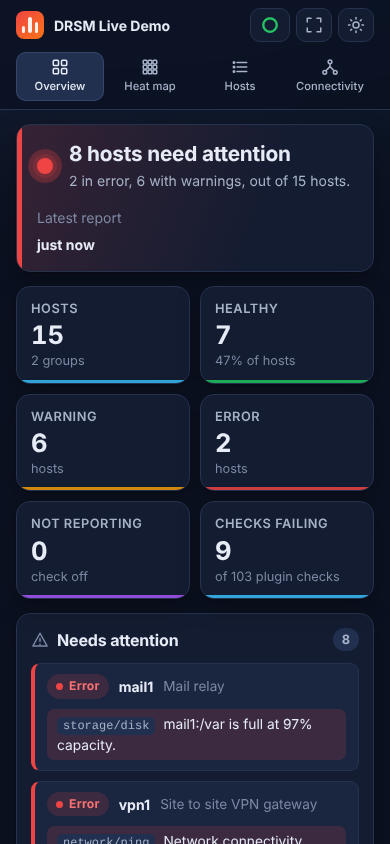
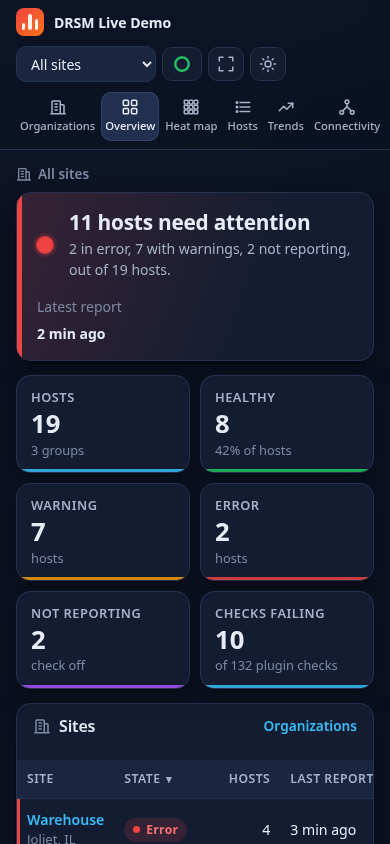
Docs: organizations, tiers, site links and multi-site setup
The HTML docs, README and PLUGINS.md now cover what came with
organizations and sites: the overview and What's new cards, an
Organizations, sites and tiers step and a qa cron line in Install, a
"Several sites, one dashboard" setup (DRSM_COLLECTOR_ID and
COLLECTOR_ID, drsm_add_collector.sh, per site web sync, $AUTHscopes
and $AUTHnetworkscopes, drsm_remove_site.sh), per site and per tier
alert addresses in Alerts, and the new sections in each page's
contents. The screenshots in docs/images are retaken from the new demo
(tiers, site cards, menus) and a Site links image is added.

diff --git a/docs/dashboard.html b/docs/dashboard.html
@@ -23,7 +23,7 @@
 </header>
 <div class="layout">
   <nav class="sidebar" aria-label="Documentation">
-    <h4>Get started</h4><a href="index.html">Overview</a><a href="install.html">Install and set up</a><a href="deployment.html">Deployment setups</a><h4>Using DRSM</h4><a href="dashboard.html" class="active" aria-current="page">Web dashboard</a><div class="toc"><a href="#overview">Overview</a><a href="#orgs">Organizations</a><a href="#heatmap">Heat map</a><a href="#hosts">Hosts and reports</a><a href="#connectivity">Connectivity</a><a href="#trends">Trends</a><a href="#anywhere">Phones and wall screens</a><a href="#customize">Customizing</a><a href="#webonly">Web only package</a><a href="#login">Login from outside</a><a href="#security">Security</a></div><a href="plugins.html">Plugins</a><a href="alerts.html">Thresholds and alerts</a><a href="databases.html">MySQL and Postgres</a><h4>Reference</h4><a href="changelog.html">What's new</a><h4>Links</h4><a href="https://datareel.com/drsm/dashboard/">Live demo</a><a href="https://datareel.com/downloads/drsm/">Downloads</a><a href="https://datareel.com/contact.php">Report an issue</a>
+    <h4>Get started</h4><a href="index.html">Overview</a><a href="install.html">Install and set up</a><a href="deployment.html">Deployment setups</a><h4>Using DRSM</h4><a href="dashboard.html" class="active" aria-current="page">Web dashboard</a><div class="toc"><a href="#overview">Overview</a><a href="#orgs">Organizations</a><a href="#tiers">Tiers</a><a href="#links">Site links</a><a href="#heatmap">Heat map</a><a href="#hosts">Hosts and reports</a><a href="#connectivity">Connectivity</a><a href="#trends">Trends</a><a href="#anywhere">Phones and wall screens</a><a href="#customize">Customizing</a><a href="#webonly">Web only package</a><a href="#login">Login from outside</a><a href="#security">Security</a></div><a href="plugins.html">Plugins</a><a href="alerts.html">Thresholds and alerts</a><a href="databases.html">MySQL and Postgres</a><h4>Reference</h4><a href="changelog.html">What's new</a><h4>Links</h4><a href="https://datareel.com/drsm/dashboard/">Live demo</a><a href="https://datareel.com/downloads/drsm/">Downloads</a><a href="https://datareel.com/contact.php">Report an issue</a>
   </nav>
   <main class="content" id="main">
 <h1>Web dashboard</h1>
@@ -48,12 +48,13 @@
 <h2 id="orgs">Organizations and sites</h2>
 <p>With hosts in more than one <a href="plugins.html#sites">site</a>, an <strong>Organizations</strong> page leads the menu. Each organization lists its sites, worst first. Each site card shows the worst state on a colored edge, host counts by state, a tile per host (select one for its report), and the monitor host that runs the site with the time it last reported. A site whose monitor host has stopped gets a <strong>Collector not reporting</strong> banner. <strong>Resource use</strong> colors each tile by the host's busiest resource instead.</p>
 <div class="shots">
-<figure><img src="images/orgs.png" width="1400" height="900" loading="lazy" alt="Organizations page with two organizations and four sites, one with its collector not reporting"><figcaption>Two organizations, four sites</figcaption></figure>
+<figure><img src="images/orgs.png" width="1400" height="900" loading="lazy" alt="Organizations page with two organizations and four sites, tier buttons, per tier host counts on each site card, and one site with its collector not reporting"><figcaption>Two organizations, four sites</figcaption></figure>
 <figure><img src="images/orgs_light.png" width="1400" height="900" loading="lazy" alt="Organizations page in the light theme"><figcaption>Light theme</figcaption></figure>
 </div>
 <p>The <strong>site picker</strong> in the top bar shows all sites, one organization or one site on every page. The Overview then lists the sites, Hosts adds Organization and Site columns, the heat map can group hosts <strong>By site</strong>, and Trends totals what each site has and needs. With a single site the pages look as before.</p>
 <p id="tiers">The <strong>tier filter</strong> (All, DEV, QA, OPS) on the Organizations, Heat map and Hosts pages shows one <a href="plugins.html#tiers">tier</a>. It appears when the hosts have more than one tier and is remembered like the site picker. Site cards count each site's hosts by tier, the heat map and host table mark each host with its tier, and Organizations tiles name it in their tooltip.</p>
 <p id="links">The <strong>Site links</strong> menu in the top bar appears when the site picker shows one site that has <a href="plugins.html#links">links</a>: the site's own, then its organization's under Org links, with a submenu for each level. Each site card on the Organizations page has the same menu. Links open in a new tab, and links for one tier show only with the tier filter on All or that tier. Organizations, Heat map and Connectivity in the main menu have a small arrow that opens their views: each organization, Check status, Resource use and By site, and the connectivity and health reports. The menus open with a click, a tap or the keyboard, and close with Escape.</p>
+<figure><img src="images/links.png" width="1400" height="900" loading="lazy" alt="Overview of the Head office site with the Site links menu open: the site's links with Grafana and Cache submenus, then the organization's links"><figcaption>Site links with nested submenus</figcaption></figure>
 <p>To limit users to their own organizations or sites, list them in <code>$AUTHscopes</code>, see <a href="#login">Login</a>.</p>
 
 <h2 id="heatmap">Heat map</h2>

diff --git a/docs/deployment.html b/docs/deployment.html
@@ -23,7 +23,7 @@
 </header>
 <div class="layout">
   <nav class="sidebar" aria-label="Documentation">
-    <h4>Get started</h4><a href="index.html">Overview</a><a href="install.html">Install and set up</a><a href="deployment.html" class="active" aria-current="page">Deployment setups</a><div class="toc"><a href="#cluster">Production cluster</a><a href="#workstation">Workstation and hosted</a><a href="#demo">Public live demo</a><a href="#cloud">Cloud servers</a></div><h4>Using DRSM</h4><a href="dashboard.html">Web dashboard</a><a href="plugins.html">Plugins</a><a href="alerts.html">Thresholds and alerts</a><a href="databases.html">MySQL and Postgres</a><h4>Reference</h4><a href="changelog.html">What's new</a><h4>Links</h4><a href="https://datareel.com/drsm/dashboard/">Live demo</a><a href="https://datareel.com/downloads/drsm/">Downloads</a><a href="https://datareel.com/contact.php">Report an issue</a>
+    <h4>Get started</h4><a href="index.html">Overview</a><a href="install.html">Install and set up</a><a href="deployment.html" class="active" aria-current="page">Deployment setups</a><div class="toc"><a href="#cluster">Production cluster</a><a href="#workstation">Workstation and hosted</a><a href="#multisite">Several sites</a><a href="#demo">Public live demo</a><a href="#cloud">Cloud servers</a></div><h4>Using DRSM</h4><a href="dashboard.html">Web dashboard</a><a href="plugins.html">Plugins</a><a href="alerts.html">Thresholds and alerts</a><a href="databases.html">MySQL and Postgres</a><h4>Reference</h4><a href="changelog.html">What's new</a><h4>Links</h4><a href="https://datareel.com/drsm/dashboard/">Live demo</a><a href="https://datareel.com/downloads/drsm/">Downloads</a><a href="https://datareel.com/contact.php">Report an issue</a>
   </nav>
   <main class="content" id="main">
 <h1>Deployment setups</h1>
@@ -158,8 +158,19 @@ export WEBSYNC_DEST="datareel-web:public_html/drsm/osa/reports"
 </ol>
 <div class="callout"><p>The dashboard marks a host <strong>Not reporting</strong> when its report is older than <code>$STALEminutes</code> (60 by default). On a hosted dashboard that also tells you the workstation stopped sending reports, for example when it was powered off.</p></div>
 
+<h2 id="multisite">Several sites, one dashboard</h2>
+<p>An MSP or a company with offices can run a monitor host at each site and feed one hosted dashboard. Each site is described once in <a href="plugins.html#sites"><code>etc/sites</code></a>; each monitor host runs only its own sites.</p>
+<ol>
+<li>On each monitor host, set <code>DRSM_COLLECTOR_ID</code> in <code>~/.drsm.sh</code>, and set <code>COLLECTOR_ID</code> to match in the site files it runs. A site with no <code>COLLECTOR_ID</code> runs on any monitor host.</li>
+<li>Print the setup for each monitor host, including its SSH key line for the dashboard account:
+<pre><code><span class="p">$ </span>~/drsm/utils/drsm_add_collector.sh -u user@dashboard -r /path/reports acme/hq</code></pre></li>
+<li><code>drsm_web_sync.sh</code> copies each site to <code>reports/orgs/&lt;org&gt;/&lt;site&gt;</code> with its own <code>--delete</code>, so monitor hosts never remove each other's sites. Set <code>WEBSYNC_RRSYNC=1</code> when the dashboard limits the key with rrsync.</li>
+<li>Limit dashboard users to their own organizations or sites with <code>$AUTHscopes</code>, and internal networks with <code>$AUTHnetworkscopes</code>, in <code>config/drsm.php</code>. See <a href="dashboard.html#login">Login from outside</a>.</li>
+</ol>
+<p>The Organizations page marks a site whose monitor host has stopped writing <code>site.json</code> as <strong>Collector not reporting</strong>. Remove a site and its reports with <code>utils/drsm_remove_site.sh org/site</code>, dry run unless <code>--apply</code>.</p>
+
 <h2 id="demo">Public live demo</h2>
-<p>The live demo at <a href="https://datareel.com/drsm/dashboard/">https://datareel.com/drsm/dashboard/</a> is the same package built with <code>-s</code>, which adds sample reports for 15 made up hosts. Nothing from the machine that builds it goes into the sample reports, and their times always show as recent.</p>
+<p>The live demo at <a href="https://datareel.com/drsm/dashboard/">https://datareel.com/drsm/dashboard/</a> is the same package built with <code>-s</code>, which adds sample reports for 19 made up hosts in two organizations and four sites, with DEV, QA and OPS tiers and example site links. Nothing from the machine that builds it goes into the sample reports, and their times always show as recent.</p>
 <pre><code><span class="p">$ </span>~/drsm/utils/make_web_demo.sh -p /drsm/dashboard -s -o /tmp/drsm_web</code></pre>
 <p>Upload <code>/tmp/drsm_web/drsm_dashboard.zip</code> to <code>public_html/drsm</code> and extract it. Rebuild and upload again to refresh the demo after a dashboard update.</p>
 

diff --git a/docs/install.html b/docs/install.html
@@ -23,7 +23,7 @@
 </header>
 <div class="layout">
   <nav class="sidebar" aria-label="Documentation">
-    <h4>Get started</h4><a href="index.html">Overview</a><a href="install.html" class="active" aria-current="page">Install and set up</a><div class="toc"><a href="#requirements">Requirements</a><a href="#user">Create the DRSM user</a><a href="#install">Install</a><a href="#hosts">Add hosts</a><a href="#test">Test a run</a><a href="#web">Web server</a><a href="#cron">Schedule the runs</a></div><a href="deployment.html">Deployment setups</a><h4>Using DRSM</h4><a href="dashboard.html">Web dashboard</a><a href="plugins.html">Plugins</a><a href="alerts.html">Thresholds and alerts</a><a href="databases.html">MySQL and Postgres</a><h4>Reference</h4><a href="changelog.html">What's new</a><h4>Links</h4><a href="https://datareel.com/drsm/dashboard/">Live demo</a><a href="https://datareel.com/downloads/drsm/">Downloads</a><a href="https://datareel.com/contact.php">Report an issue</a>
+    <h4>Get started</h4><a href="index.html">Overview</a><a href="install.html" class="active" aria-current="page">Install and set up</a><div class="toc"><a href="#requirements">Requirements</a><a href="#user">Create the DRSM user</a><a href="#install">Install</a><a href="#hosts">Add hosts</a><a href="#sites">Sites and tiers</a><a href="#test">Test a run</a><a href="#web">Web server</a><a href="#cron">Schedule the runs</a></div><a href="deployment.html">Deployment setups</a><h4>Using DRSM</h4><a href="dashboard.html">Web dashboard</a><a href="plugins.html">Plugins</a><a href="alerts.html">Thresholds and alerts</a><a href="databases.html">MySQL and Postgres</a><h4>Reference</h4><a href="changelog.html">What's new</a><h4>Links</h4><a href="https://datareel.com/drsm/dashboard/">Live demo</a><a href="https://datareel.com/downloads/drsm/">Downloads</a><a href="https://datareel.com/contact.php">Report an issue</a>
   </nav>
   <main class="content" id="main">
 <h1>Install and set up</h1>
@@ -108,6 +108,13 @@ storage_disk_WARN=85</code></pre>
 cms,CMS server,Web CMS is affected,yes:HTTP HTTPS,yes,yes,yes,yes
 cms1,Primary CMS server,Web CMS is affected,no,yes,no,yes,yes</code></pre>
 
+<h3 id="sites">Organizations, sites and tiers</h3>
+<p>For one network you can skip this. To watch several customers or offices, put each host in a site with <code>SITE=&lt;org&gt;/&lt;site&gt;</code> and describe the sites in <code>etc/sites</code>, or move every host in one step with <code>utils/drsm_migrate_sites.sh</code> (dry run unless <code>--apply</code>). <code>GROUP=dev</code>, <code>qa</code> or <code>ops</code> sets a host's tier. See <a href="plugins.html#sites">Organizations and sites</a>, <a href="plugins.html#tiers">Tiers</a> and <a href="plugins.html#links">Site links</a>.</p>
+<pre><code><span class="p">$ </span>cd ~/drsm/etc/sites
+<span class="p">$ </span>cp example.org_example acme.org &amp;&amp; mkdir acme &amp;&amp; cp example/example.site_example acme/hq.site
+<span class="p">$ </span>~/drsm/utils/drsm_migrate_sites.sh -o "Acme Corp" -n "Head office" acme/hq
+<span class="p">$ </span>~/drsm/utils/drsm_migrate_sites.sh --apply -o "Acme Corp" -n "Head office" acme/hq</code></pre>
+
 <h2 id="test">Test a run</h2>
 <pre><code><span class="p">$ </span>source ~/.drsm.sh
 <span class="p">$ </span>~/drsm/bin/drsm_run.sh -l           # list hosts and plugins
@@ -148,6 +155,7 @@ cms1,Primary CMS server,Web CMS is affected,no,yes,no,yes,yes</code></pre>
 15,45 * * * * /home/sysadmin/drsm/bin/drsm_run.sh &amp;&gt; /dev/null
 15 13 * * mon-fri /home/sysadmin/drsm/bin/drsm_run.sh -e &amp;&gt; /dev/null
 55 09-16 * * mon-fri /home/sysadmin/drsm/bin/drsm_run.sh -g dev &amp;&gt; /dev/null
+55 09-16 * * mon-fri /home/sysadmin/drsm/bin/drsm_run.sh -g qa &amp;&gt; /dev/null
 
 <span class="c"># Archive reports nightly, purge old ones hourly</span>
 59 23 * * * /home/sysadmin/drsm/bin/archive.sh &amp;&gt; /dev/null

diff --git a/docs/alerts.html b/docs/alerts.html
@@ -23,7 +23,7 @@
 </header>
 <div class="layout">
   <nav class="sidebar" aria-label="Documentation">
-    <h4>Get started</h4><a href="index.html">Overview</a><a href="install.html">Install and set up</a><a href="deployment.html">Deployment setups</a><h4>Using DRSM</h4><a href="dashboard.html">Web dashboard</a><a href="plugins.html">Plugins</a><a href="alerts.html" class="active" aria-current="page">Thresholds and alerts</a><div class="toc"><a href="#plugin-settings">Plugin settings</a><a href="#profiles">Profiles</a><a href="#email">Email and text</a><a href="#relay">Relay host</a><a href="#smarthost">Smart host</a></div><a href="databases.html">MySQL and Postgres</a><h4>Reference</h4><a href="changelog.html">What's new</a><h4>Links</h4><a href="https://datareel.com/drsm/dashboard/">Live demo</a><a href="https://datareel.com/downloads/drsm/">Downloads</a><a href="https://datareel.com/contact.php">Report an issue</a>
+    <h4>Get started</h4><a href="index.html">Overview</a><a href="install.html">Install and set up</a><a href="deployment.html">Deployment setups</a><h4>Using DRSM</h4><a href="dashboard.html">Web dashboard</a><a href="plugins.html">Plugins</a><a href="alerts.html" class="active" aria-current="page">Thresholds and alerts</a><div class="toc"><a href="#plugin-settings">Plugin settings</a><a href="#profiles">Profiles</a><a href="#email">Email and text</a><a href="#site-alerts">Per site and tier</a><a href="#relay">Relay host</a><a href="#smarthost">Smart host</a></div><a href="databases.html">MySQL and Postgres</a><h4>Reference</h4><a href="changelog.html">What's new</a><h4>Links</h4><a href="https://datareel.com/drsm/dashboard/">Live demo</a><a href="https://datareel.com/downloads/drsm/">Downloads</a><a href="https://datareel.com/contact.php">Report an issue</a>
   </nav>
   <main class="content" id="main">
 <h1>Thresholds and alerts</h1>
@@ -58,6 +58,12 @@ export TEXTlist="5555555555@vtext.com"
 <span class="p">$ </span>$DRSMHOME/bin/test_alert.sh</code></pre>
 <p>For texts, use the carrier's email to text address, such as <code>number@vtext.com</code> (Verizon) or <code>number@tmomail.net</code> (T-Mobile).</p>
 <div class="callout warn"><p>Several carriers have shut down their email to text gateways, including AT&amp;T (2025), Sprint, Nextel and Cingular. Check with your carrier before relying on text alerts.</p></div>
+<h3 id="site-alerts">Per site and per tier addresses</h3>
+<p>With <a href="plugins.html#sites">organizations and sites</a>, <code>ALERT_EMAIL</code> in a site file sends that site's alerts to its own addresses in place of <code>EMAILlist</code>, and the subject names the site. <code>ALERT_EMAIL_DEV</code>, <code>ALERT_EMAIL_QA</code> and <code>ALERT_EMAIL_OPS</code> go further and give each <a href="plugins.html#tiers">tier</a> its own addresses, falling back to <code>ALERT_EMAIL</code>. Each site has its own 4 hour throttle. Only OPS (production) alerts send texts.</p>
+<pre><code><span class="c"># etc/sites/acme/hq.site</span>
+ALERT_EMAIL="ops@acme.example"
+ALERT_EMAIL_DEV="dev-team@acme.example"
+ALERT_EMAIL_QA="qa@acme.example"</code></pre>
 <p>DRSM uses the first <code>mail</code>, <code>mailx</code> or <code>s-nail</code> command it finds. Set <code>MAILcmd</code> in <code>~/.drsm.sh</code> to use another.</p>
 
 <h3 id="relay">Relay host</h3>

diff --git a/docs/index.html b/docs/index.html
@@ -38,7 +38,7 @@
 </section>
 
 <figure>
-  <img src="images/overview.png" width="1400" height="900" alt="The DRSM Overview page: a red banner saying 8 hosts need attention, counts of healthy, warning and error hosts, a Needs attention list, group checks, and a host matrix.">
+  <img src="images/overview.png" width="1400" height="900" alt="The DRSM Overview page for all sites: a red banner saying 11 hosts need attention, counts of healthy, warning, error and not reporting hosts, a table of sites, a Needs attention list and group checks.">
   <figcaption>The Overview page from the <a href="https://datareel.com/drsm/dashboard/">live demo</a>, which runs on made up sample hosts.</figcaption>
 </figure>
 
@@ -49,6 +49,8 @@
   <div class="card"><h3>Plugins</h3><p>Every check is a folder with a manifest and one BASH script. Add your own check without touching a core script.</p></div>
   <div class="card"><h3>Situational awareness</h3><p>Overview, heat map, hosts and connectivity pages, on desktop, phone and NOC wall screen, in light or dark.</p></div>
   <div class="card"><h3>Alerts</h3><p>Email and email to text alerts, throttled to one per problem every 4 hours, with the business impact in each message.</p></div>
+  <div class="card"><h3>Organizations and sites</h3><p>Customers and offices on one dashboard: an Organizations page with a heat map per site, a site picker, per site alerts, several monitor hosts feeding one dashboard, and logins limited to their own sites.</p></div>
+  <div class="card"><h3>Tiers and site links</h3><p>DEV, QA and OPS tiers with a tier filter and per tier alert addresses, and a Site links menu with nested submenus for each site's own tools and runbooks.</p></div>
   <div class="card"><h3>Databases</h3><p>MySQL and Postgres backup, statistics and maintenance scripts, with stored credentials for unattended runs.</p></div>
 </div>
 
@@ -109,11 +111,12 @@
 <p>Nothing needs to be installed on a monitored host except a user account with keyed SSH access. The plugins are copied over on the first run and only again when they change.</p>
 
 <h2 id="new">What's new</h2>
-<p>DRSM had a full code review and three feature releases in October 2026. See <a href="changelog.html">What's new</a> for the details.</p>
+<p>DRSM had a full code review and several feature updates in October 2026. See <a href="changelog.html">What's new</a> for the details.</p>
 <div class="grid">
   <a class="card" href="changelog.html#v130"><h3>Code review and modernization</h3><p>Release 1.30. More than 30 monitoring and security fixes, RHEL 10, Debian, Ubuntu, PHP 8 and cloud server support.</p></a>
   <a class="card" href="plugins.html"><h3>Plugin module system</h3><p><code>drsm_run.sh</code>, the plugin contract, host files, and a migration tool from <code>systems.dat</code>.</p></a>
   <a class="card" href="dashboard.html"><h3>Dashboard redesign</h3><p>Situational awareness Overview, heat map with status icons, host reports with gauges, and a Web only package for shared hosting.</p></a>
+  <a class="card" href="plugins.html#sites"><h3>Organizations and sites</h3><p>Organization &gt; site &gt; tier &gt; host, an Organizations page with a heat map per site, scoped logins, DEV, QA and OPS tiers, and site links.</p></a>
 </div>
 
 <h2 id="setups">Deployment setups</h2>

diff --git a/docs/plugins.html b/docs/plugins.html
@@ -23,7 +23,7 @@
 </header>
 <div class="layout">
   <nav class="sidebar" aria-label="Documentation">
-    <h4>Get started</h4><a href="index.html">Overview</a><a href="install.html">Install and set up</a><a href="deployment.html">Deployment setups</a><h4>Using DRSM</h4><a href="dashboard.html">Web dashboard</a><a href="plugins.html" class="active" aria-current="page">Plugins</a><div class="toc"><a href="#included">Plugins included</a><a href="#runner">drsm_run.sh</a><a href="#hosts">Host files</a><a href="#sites">Organizations and sites</a><a href="#windows">Windows hosts</a><a href="#writing">Writing a plugin</a><a href="#how">How a run works</a><a href="#layout">Files</a><a href="#roadmap">Roadmap</a></div><a href="alerts.html">Thresholds and alerts</a><a href="databases.html">MySQL and Postgres</a><h4>Reference</h4><a href="changelog.html">What's new</a><h4>Links</h4><a href="https://datareel.com/drsm/dashboard/">Live demo</a><a href="https://datareel.com/downloads/drsm/">Downloads</a><a href="https://datareel.com/contact.php">Report an issue</a>
+    <h4>Get started</h4><a href="index.html">Overview</a><a href="install.html">Install and set up</a><a href="deployment.html">Deployment setups</a><h4>Using DRSM</h4><a href="dashboard.html">Web dashboard</a><a href="plugins.html" class="active" aria-current="page">Plugins</a><div class="toc"><a href="#included">Plugins included</a><a href="#runner">drsm_run.sh</a><a href="#hosts">Host files</a><a href="#sites">Organizations and sites</a><a href="#tiers">Tiers</a><a href="#links">Site links</a><a href="#windows">Windows hosts</a><a href="#writing">Writing a plugin</a><a href="#how">How a run works</a><a href="#layout">Files</a><a href="#roadmap">Roadmap</a></div><a href="alerts.html">Thresholds and alerts</a><a href="databases.html">MySQL and Postgres</a><h4>Reference</h4><a href="changelog.html">What's new</a><h4>Links</h4><a href="https://datareel.com/drsm/dashboard/">Live demo</a><a href="https://datareel.com/downloads/drsm/">Downloads</a><a href="https://datareel.com/contact.php">Report an issue</a>
   </nav>
   <main class="content" id="main">
 <h1>Plugins</h1>

diff --git a/CHANGELOG.md b/CHANGELOG.md
@@ -72,6 +72,12 @@ All notable changes to the DataReel System Monitor (DRSM) are listed here.
   1440 pixels wide so the top bar fits with the site picker and the
   Site links menu. The Web only demo has example site and org links.
 
+- Documentation: the HTML docs, README and PLUGINS.md cover
+  organizations and sites, tiers, site links, the main menu submenus,
+  several monitor hosts feeding one dashboard, scoped logins and per
+  site and per tier alert addresses. The screenshots in `docs/images`
+  were retaken from the new demo, with a new Site links image.
+
 #### Changed
 
 - `drsm_web_sync.sh` copies each site to `orgs/<org>/<site>` on the

diff --git a/PLUGINS.md b/PLUGINS.md
@@ -189,6 +189,10 @@ example `PROBES` or `WRA_REPORTS_DIR`. Examples are in
 `GROUP` in a site file is a default too, so a whole site can be a QA or
 DEV site.
 
+To limit dashboard users to their own organizations or sites, list
+them in `$AUTHscopes` (per user) and `$AUTHnetworkscopes` (per internal
+network) in the dashboard's `config/drsm.php`; see `php/drsm_auth.php`.
+
 A host joins a site with `SITE=<org>/<site>` in its host file. Hosts
 without one use `DRSM_SITE` from `~/.drsm.sh`, so a monitor host that
 only watches one site can set it once. IDs use `a-z`, `0-9`, `_` and
